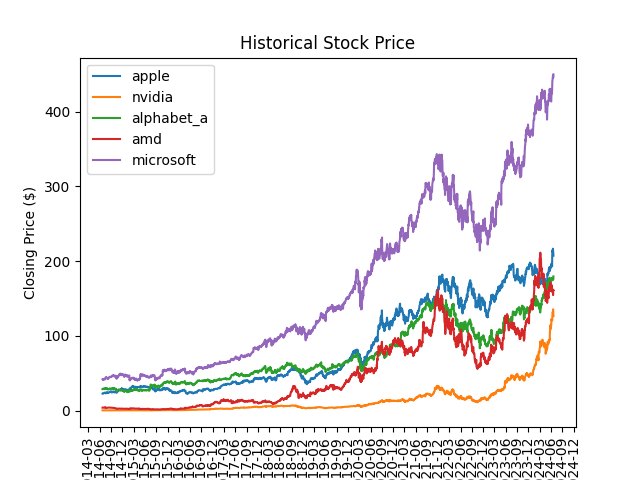
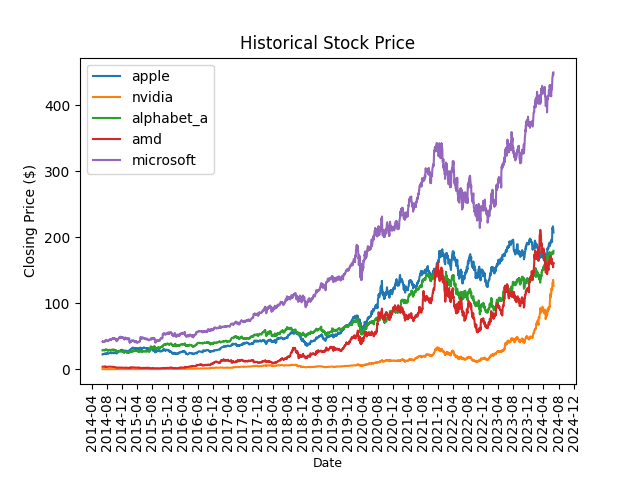
fix x axis for stock

diff --git a/stocks/main.py b/stocks/main.py
@@ -13,10 +13,11 @@ def main():
     add_data_for_set("./stocks/data/microsoft.csv", "C4")
 
     ax = plt.gca()
-    ax.xaxis.set_major_locator(mdates.MonthLocator(interval=3))
+    ax.xaxis.set_major_locator(mdates.MonthLocator(interval=4))
     ax.xaxis.set_major_formatter(mdates.DateFormatter("%Y-%m"))
+    plt.subplots_adjust(bottom=0.2)
 
-    plt.xlabel("Date")
+    plt.xlabel("Date", fontsize=9)
     plt.ylabel("Closing Price ($)")
     plt.xticks(rotation=90)
     plt.title("Historical Stock Price")
